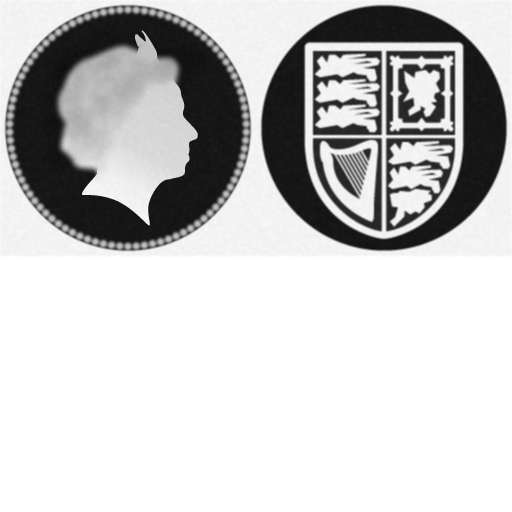
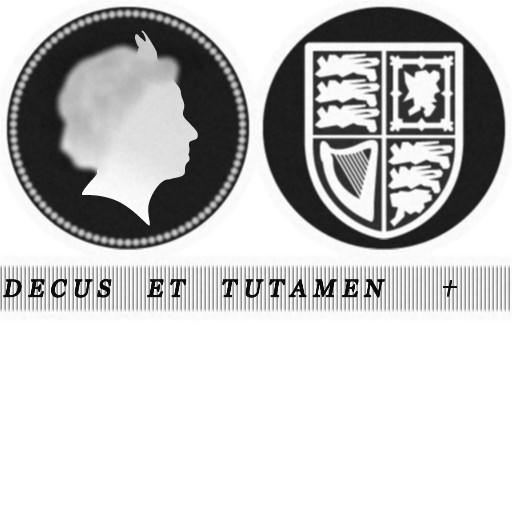
Add edge inscription to coin by texture mapping

diff --git a/src/coins/shaders/ShapeCoin.js b/src/coins/shaders/ShapeCoin.js
@@ -3,41 +3,45 @@ import DepthFrag from '../../3d/DepthFrag.js';
 const layerSteps = 6;
 const binarySearchSteps = 3;
 
-const EDGE_SHAPE_FRAG = `
+const SHAPE_FRAG = `
+	uniform sampler2D normalMap;
+
 	varying lowp float thickness;
 
-	const lowp float bumps = 90.0;
+	const lowp float pi2 = 3.14159265359 * 2.0;
 
 	lowp vec2 edgeUvAt(in lowp vec3 pos) {
 		return vec2(
-			atan(pos.y / pos.x),
-			pos.z * 0.5 / thickness + 0.5
+			0.5 - atan(pos.y, pos.x) / pi2,
+			(pos.z * 0.5 / thickness + 0.5) * 0.0625 + 0.53125
 		);
 	}
 
 	lowp float edgeDepthAt(in lowp vec3 pos) {
-		lowp float bump = edgeUvAt(pos).x * bumps;
-		return (sin(bump) * 0.5 + 0.5);
+		return texture2D(normalMap, edgeUvAt(pos)).w;
 	}
 
+	lowp vec3 edgeNormalAt(in lowp vec3 pos) {
+		return texture2D(normalMap, edgeUvAt(pos)).xyz * 2.0 - 1.0;
+	}
+
+	lowp vec3 normalAt(in lowp vec2 uv) {
+		return texture2D(normalMap, uv).xyz * 2.0 - 1.0;
+	}
+`;
+
+const EDGE_SHAPE_FRAG = `
 	lowp float edgePenetrationAt(in lowp vec3 pos) {
 		return 1.0 - length(pos.xy);
 	}
 
-	lowp vec3 edgeNormalAt(in lowp vec3 pos, in lowp float edgeThickness) {
-		lowp float bump = edgeUvAt(pos).x * bumps;
-		lowp float g = 0.5 * bumps * cos(bump) * edgeThickness;
-
-		return normalize(vec3(-g, 0.0, 1.0));
-	}
-
-	lowp vec3 rotatedEdgeNormalAt(in lowp vec3 pos, in lowp float edgeThickness) {
+	lowp vec3 rotatedEdgeNormalAt(in lowp vec3 pos) {
 		lowp mat3 faceD;
 		faceD[2] = vec3(normalize(pos.xy), 0.0);
 		faceD[1] = vec3(0.0, 0.0, 1.0);
 		faceD[0] = cross(faceD[2], faceD[1]);
 
-		return faceD * edgeNormalAt(pos, edgeThickness);
+		return faceD * edgeNormalAt(pos);
 	}
 `;
 
@@ -45,7 +49,7 @@ const EDGE_BOUNDRY_FRAG = `
 	lowp float edgeBoundryAt(
 		in lowp vec3 pos,
 		in lowp vec3 dpos,
-		in lowp float edgeThickness
+		in lowp float maxDepth
 	) {
 		lowp float lastD = 0.0;
 		lowp float nextD = 1.0;
@@ -56,7 +60,7 @@ const EDGE_BOUNDRY_FRAG = `
 		// layer search
 		for (lowp int i = 0; i < ${layerSteps}; ++ i) {
 			lowp vec3 p = pos + dpos * nextP;
-			lowp float curD = edgeDepthAt(p) * edgeThickness;
+			lowp float curD = edgeDepthAt(p) * maxDepth;
 			if (curD <= edgePenetrationAt(p)) {
 				nextD = curD;
 				break;
@@ -73,7 +77,7 @@ const EDGE_BOUNDRY_FRAG = `
 		for (lowp int i = 0; i < ${binarySearchSteps}; ++ i) {
 			lowp float curP = (lastP + nextP) * 0.5;
 			lowp vec3 p = pos + dpos * curP;
-			lowp float curD = edgeDepthAt(p) * edgeThickness;
+			lowp float curD = edgeDepthAt(p) * maxDepth;
 			if (curD <= edgePenetrationAt(p)) {
 				nextP = curP;
 				nextD = curD;
@@ -90,8 +94,7 @@ const EDGE_BOUNDRY_FRAG = `
 	}
 `;
 
-export default DepthFrag() + EDGE_SHAPE_FRAG + EDGE_BOUNDRY_FRAG + `
-	uniform sampler2D normalMap;
+export default DepthFrag() + SHAPE_FRAG + EDGE_SHAPE_FRAG + EDGE_BOUNDRY_FRAG + `
 	uniform highp vec3 eye;
 	uniform lowp float maxDepth;
 
@@ -99,16 +102,10 @@ export default DepthFrag() + EDGE_SHAPE_FRAG + EDGE_BOUNDRY_FRAG + `
 	varying lowp vec3 n;
 	varying lowp vec2 t;
 
-	const lowp float edgeThickness = 0.01;
-	const lowp float edgeThresh = 1.0 - edgeThickness;
-
-	lowp vec3 normalAt(in lowp vec2 uv) {
-		return texture2D(normalMap, uv).xyz * 2.0 - 1.0;
-	}
-
 	void main() {
 		lowp vec3 ray = normalize(p - eye);
-		if (dot(p.xy, p.xy) > edgeThresh * edgeThresh) {
+		lowp float edgeInnerRad = 1.0 - maxDepth;
+		if (dot(p.xy, p.xy) > edgeInnerRad * edgeInnerRad) {
 			highp float ee = dot(eye.xy, eye.xy);
 			highp float er = dot(eye.xy, ray.xy);
 			highp float rr = dot(ray.xy, ray.xy);
@@ -130,7 +127,7 @@ export default DepthFrag() + EDGE_SHAPE_FRAG + EDGE_BOUNDRY_FRAG + `
 				ee = dot(eye.xy, eye.xy);
 				er = dot(eye.xy, ray.xy);
 				rr = dot(ray.xy, ray.xy);
-				root = er * er - ee * rr + edgeThresh * edgeThresh * rr;
+				root = er * er - ee * rr + edgeInnerRad * edgeInnerRad * rr;
 				if (root > 0.0) {
 					capL = (-sqrt(root) - er) / rr;
 					clipped = false;
@@ -150,7 +147,7 @@ export default DepthFrag() + EDGE_SHAPE_FRAG + EDGE_BOUNDRY_FRAG + `
 				clipped = true;
 			}
 
-			lowp float d = edgeBoundryAt(pos, cap - pos, edgeThickness);
+			lowp float d = edgeBoundryAt(pos, cap - pos, maxDepth);
 			if (clipped && d == 1.0) {
 				discard;
 			}
@@ -160,7 +157,7 @@ export default DepthFrag() + EDGE_SHAPE_FRAG + EDGE_BOUNDRY_FRAG + `
 			if (compare > thickness) {
 				discard;
 			} else if (compare > -thickness) {
-				apply(pos, rotatedEdgeNormalAt(pos, edgeThickness), ray);
+				apply(pos, rotatedEdgeNormalAt(pos), ray);
 				return;
 			}
 		}
